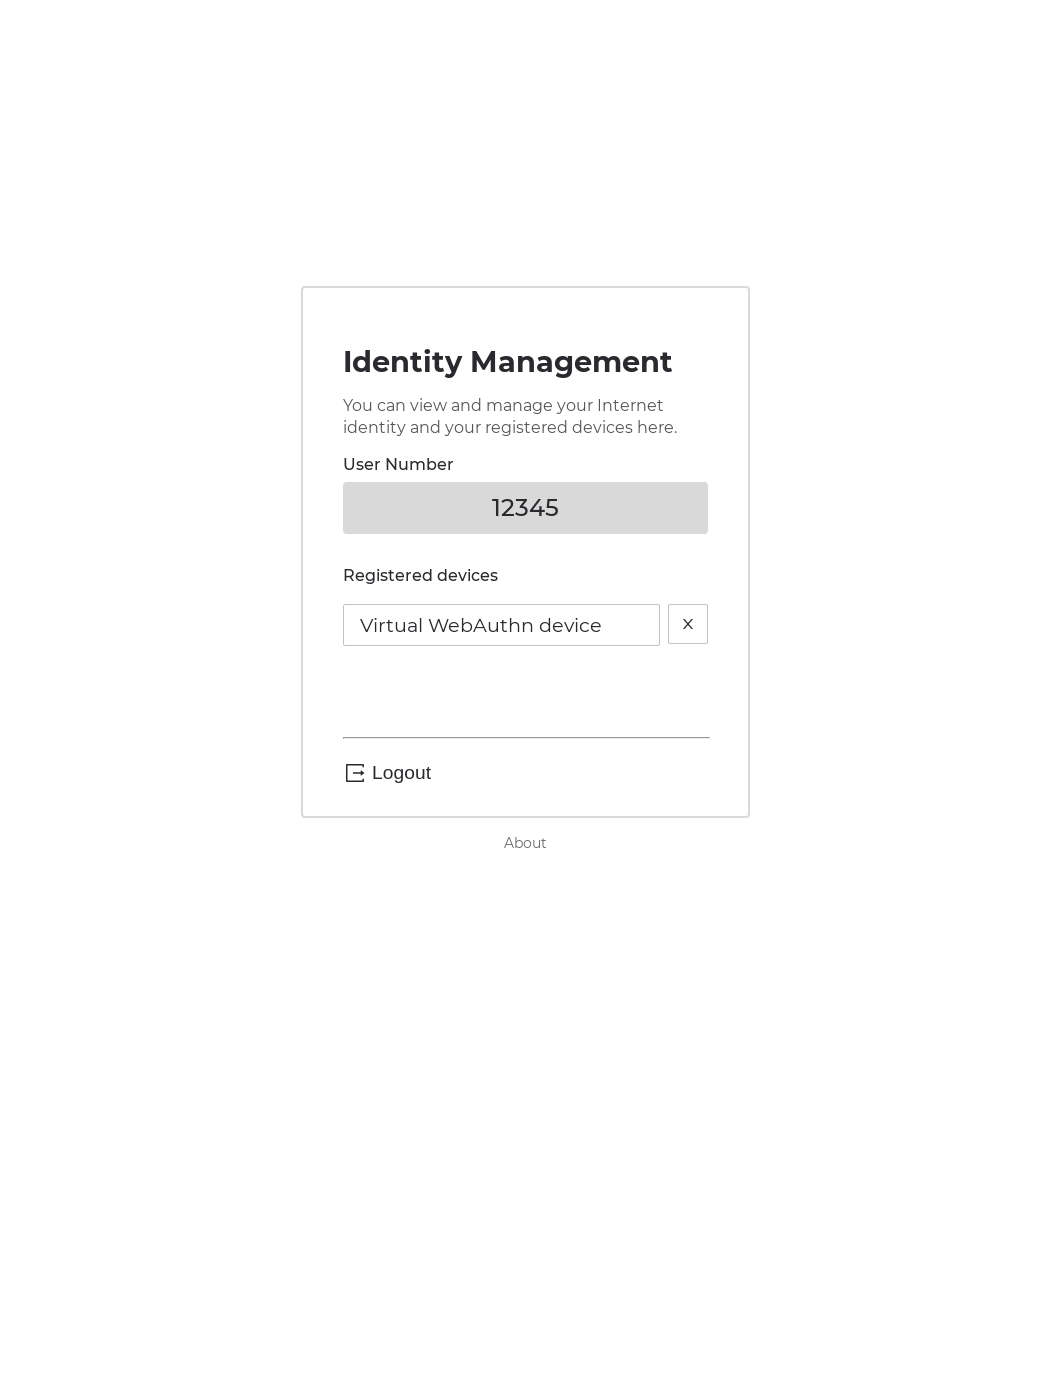
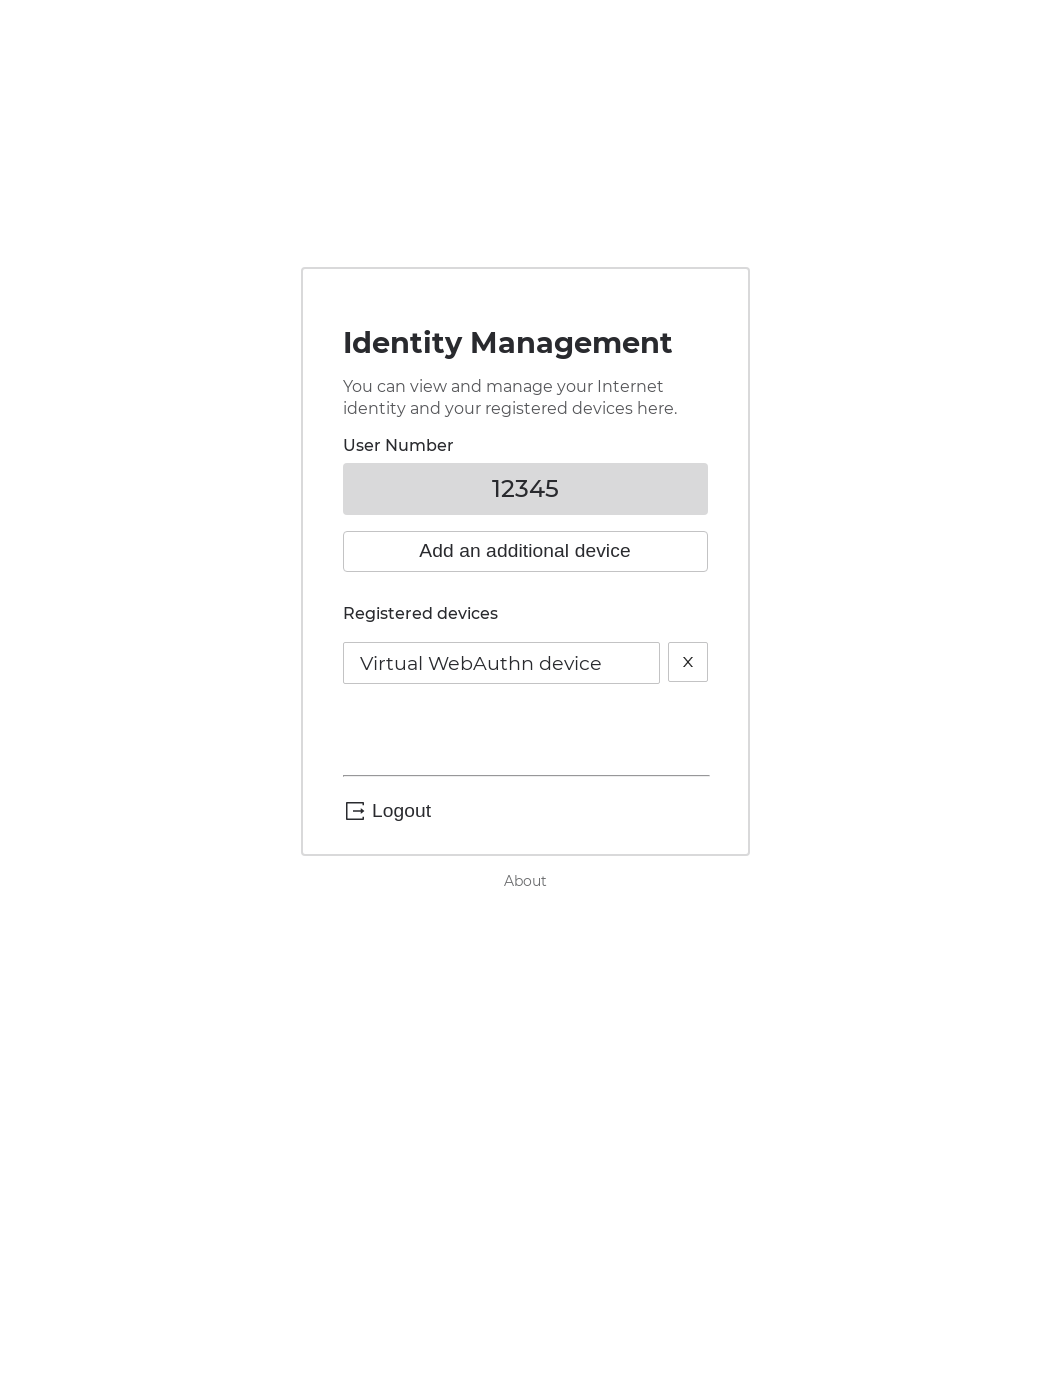
Allow adding new devices from the management page (#273)
* Allow adding new devices from the management page

* Updating frontend formatting

* return to management page when cancelling device name input

* Point users at the SDK site when things go wrong

* Update src/frontend/src/flows/manage.ts

* Adds a selenium test for adding an additional device from manage

* update label on the back to manage error button

* Updating frontend formatting

* Updating selenium screenshots

* remove accidental test.only leftover

* Updating selenium screenshots

diff --git a/src/frontend/src/flows/manage.ts b/src/frontend/src/flows/manage.ts
@@ -11,6 +11,8 @@ import { aboutLink } from "../components/aboutLink";
 import { DeviceData, PublicKey } from "../../generated/internet_identity_types";
 import { closeIcon } from "../components/icons";
 import { displayError } from "../components/displayError";
+import { pickDeviceAlias } from "./addDevicePickAlias";
+import { WebAuthnIdentity } from "@dfinity/identity";
 
 const pageContent = (userNumber: bigint) => html`<style>
     #deviceLabel {
@@ -26,6 +28,9 @@ const pageContent = (userNumber: bigint) => html`<style>
     </p>
     <label>User Number</label>
     <div class="highlightBox">${userNumber}</div>
+    <button id="addAdditionalDevice" type="button">
+      Add an additional device
+    </button>
     <label id="deviceLabel">Registered devices</label>
     <div id="deviceList"></div>
     ${logoutSection()}
@@ -50,6 +55,60 @@ export const renderManage = (
 const init = async (userNumber: bigint, connection: IIConnection) => {
   // TODO - Check alias for current identity, and populate #nameSpan
   initLogout();
+  const addAdditionalDevice = document.querySelector(
+    "#addAdditionalDevice"
+  ) as HTMLButtonElement;
+
+  addAdditionalDevice.onclick = async () => {
+    let newDevice: WebAuthnIdentity;
+    try {
+      newDevice = await WebAuthnIdentity.create();
+    } catch (error) {
+      await displayError({
+        title: "Failed to add new device",
+        message: html`
+          We failed to add your new device.<br />
+          If you're trying to add a device that is not attached to this machine
+          try following the instructions at<br />
+          <a
+            target="_blank"
+            href="https://sdk.dfinity.org/docs/ic-identity-guide/auth-how-to.html#_add_a_device"
+            >https://sdk.dfinity.org/docs/ic-identity-guide/auth-how-to.html#_add_a_device</a
+          >
+        `,
+        detail: error.message,
+        primaryButton: "Back to manage",
+      });
+      return renderManage(userNumber, connection);
+    }
+    const deviceName = await pickDeviceAlias();
+    if (deviceName === null) {
+      return renderManage(userNumber, connection);
+    }
+    // TODO check whether newDevice is already registered,
+    // or better, pass existing devices to `.create` so that they
+    // cannot be added again
+    try {
+      await withLoader(() =>
+        connection.add(
+          userNumber,
+          deviceName,
+          newDevice.getPublicKey().toDer(),
+          newDevice.rawId
+        )
+      );
+    } catch (error) {
+      await displayError({
+        title: "Failed to add the new device",
+        message:
+          "We failed to add the new device to your identity. Please try again",
+        detail: error.message,
+        primaryButton: "Back to manage",
+      });
+    }
+    renderManage(userNumber, connection);
+  };
+
   renderIdentities(userNumber, connection);
 };
 
@@ -67,7 +126,7 @@ const renderIdentities = async (
     await displayError({
       title: "Failed to list your devices",
       message:
-        "An unexpected error occured when displaying your devices. Please try again",
+        "An unexpected error occurred when displaying your devices. Please try again",
       detail: err.toString(),
       primaryButton: "Try again",
     });

diff --git a/src/frontend/src/selenium.test.ts b/src/frontend/src/selenium.test.ts
@@ -149,8 +149,12 @@ async function on_Main(device_name: string, driver: ThenableWebDriver) {
   // wait for device list to load
   await driver.wait(
     until.elementLocated(By.xpath(`//div[string()='${device_name}']`)),
-    3_000
+    10_000
   );
+}
+
+async function on_Main_AddAdditionalDevice(driver: ThenableWebDriver) {
+  await driver.findElement(By.id("addAdditionalDevice")).click();
 }
 
 async function on_Main_Logout(driver: ThenableWebDriver) {
@@ -347,7 +351,9 @@ async function on_DemoApp_Whoami(driver: ThenableWebDriver) {
 ## Setup helpers
 */
 
-async function addVirtualAuthenticator(driver: ThenableWebDriver) {
+async function addVirtualAuthenticator(
+  driver: ThenableWebDriver
+): Promise<string> {
   const executor = driver.getExecutor();
   const sessionId = (await driver.getSession()).getId();
   executor.defineCommand(
@@ -361,6 +367,22 @@ async function addVirtualAuthenticator(driver: ThenableWebDriver) {
   cmd.setParameter("hasResidentKey", true);
   cmd.setParameter("isUserConsenting", true);
   cmd.setParameter("sessionId", sessionId);
+  return await executor.execute(cmd);
+}
+
+async function setUserVerified(
+  driver: ThenableWebDriver,
+  authenticatorId: string
+) {
+  const executor = driver.getExecutor();
+  const sessionId = (await driver.getSession()).getId();
+  executor.defineCommand(
+    "SetUserVerified",
+    "POST",
+    `/session/${sessionId}/webauthn/authenticator/${authenticatorId}/uv`
+  );
+  const cmd = new Command("SetUserVerified");
+  cmd.setParameter("isUserVerified", true);
   await executor.execute(cmd);
 }
 
@@ -488,6 +510,30 @@ test("_Register new identity and login with it", async () => {
     await driver.get(II_URL);
     const userNumber = await registerNewIdentity(driver);
     await on_Main(DEVICE_NAME1, driver);
+    await await on_Main_Logout(driver);
+    await login(userNumber, driver);
+  });
+}, 300_000);
+
+test("Register new identity and add additional device", async () => {
+  await run_in_browser(async (driver: ThenableWebDriver) => {
+    const firstAuthenticator = await addVirtualAuthenticator(driver);
+    await driver.get(II_URL);
+    const userNumber = await registerNewIdentity(driver);
+    await on_Main(DEVICE_NAME1, driver);
+    const secondAuthenticator = await addVirtualAuthenticator(driver);
+    setUserVerified(driver, secondAuthenticator);
+    await on_Main_AddAdditionalDevice(driver);
+
+    await on_AddDeviceAlias(driver);
+    await on_AddDeviceAlias_Type(DEVICE_NAME2, driver);
+    await on_AddDeviceAlias_Continue(driver);
+
+    await driver.sleep(10_000);
+
+    await on_Main(DEVICE_NAME1, driver);
+    await on_Main(DEVICE_NAME2, driver);
+
     await await on_Main_Logout(driver);
     await login(userNumber, driver);
   });

diff --git a/src/frontend/src/flows/addDevicePickAlias.ts b/src/frontend/src/flows/addDevicePickAlias.ts
@@ -1,6 +1,5 @@
 import { html, render } from "lit-html";
 import { initLogout, logoutSection } from "../components/logout";
-import { clearHash } from "./addDevice";
 
 const pageContent = () => html`
   <div class="container">
@@ -13,13 +12,13 @@ const pageContent = () => html`
   </div>
 `;
 
-export const pickDeviceAlias = async (): Promise<string> => {
+export const pickDeviceAlias = async (): Promise<string | null> => {
   const container = document.getElementById("pageContent") as HTMLElement;
   render(pageContent(), container);
   return init();
 };
 
-const init = (): Promise<string> =>
+const init = (): Promise<string | null> =>
   new Promise((resolve) => {
     initLogout();
     const deviceAlias = document.getElementById(
@@ -32,8 +31,7 @@ const init = (): Promise<string> =>
       "deviceAliasCancel"
     ) as HTMLButtonElement;
     deviceAliasCancel.onclick = () => {
-      clearHash();
-      window.location.reload();
+      resolve(null);
     };
     deviceAliasContinue.onclick = () => {
       resolve(deviceAlias.value);

diff --git a/src/frontend/src/flows/addDevice.ts b/src/frontend/src/flows/addDevice.ts
@@ -68,6 +68,10 @@ const init = (userNumber: bigint, connection: IIConnection) => {
       console.log("Adding new device with:", parsedParams);
       try {
         const deviceName = await pickDeviceAlias();
+        if (deviceName === null) {
+          clearHash();
+          return window.location.reload();
+        }
         await withLoader(() =>
           connection.add(userNumber, deviceName, publicKey, rawId)
         );

diff --git a/src/frontend/src/components/displayError.ts b/src/frontend/src/components/displayError.ts
@@ -1,9 +1,9 @@
-import { html, render } from "lit-html";
+import { html, render, TemplateResult } from "lit-html";
 import { warningIcon } from "./icons";
 
 export type ErrorOptions = {
   title: string;
-  message: string;
+  message: string | TemplateResult;
   detail?: string;
   primaryButton: string;
 };
